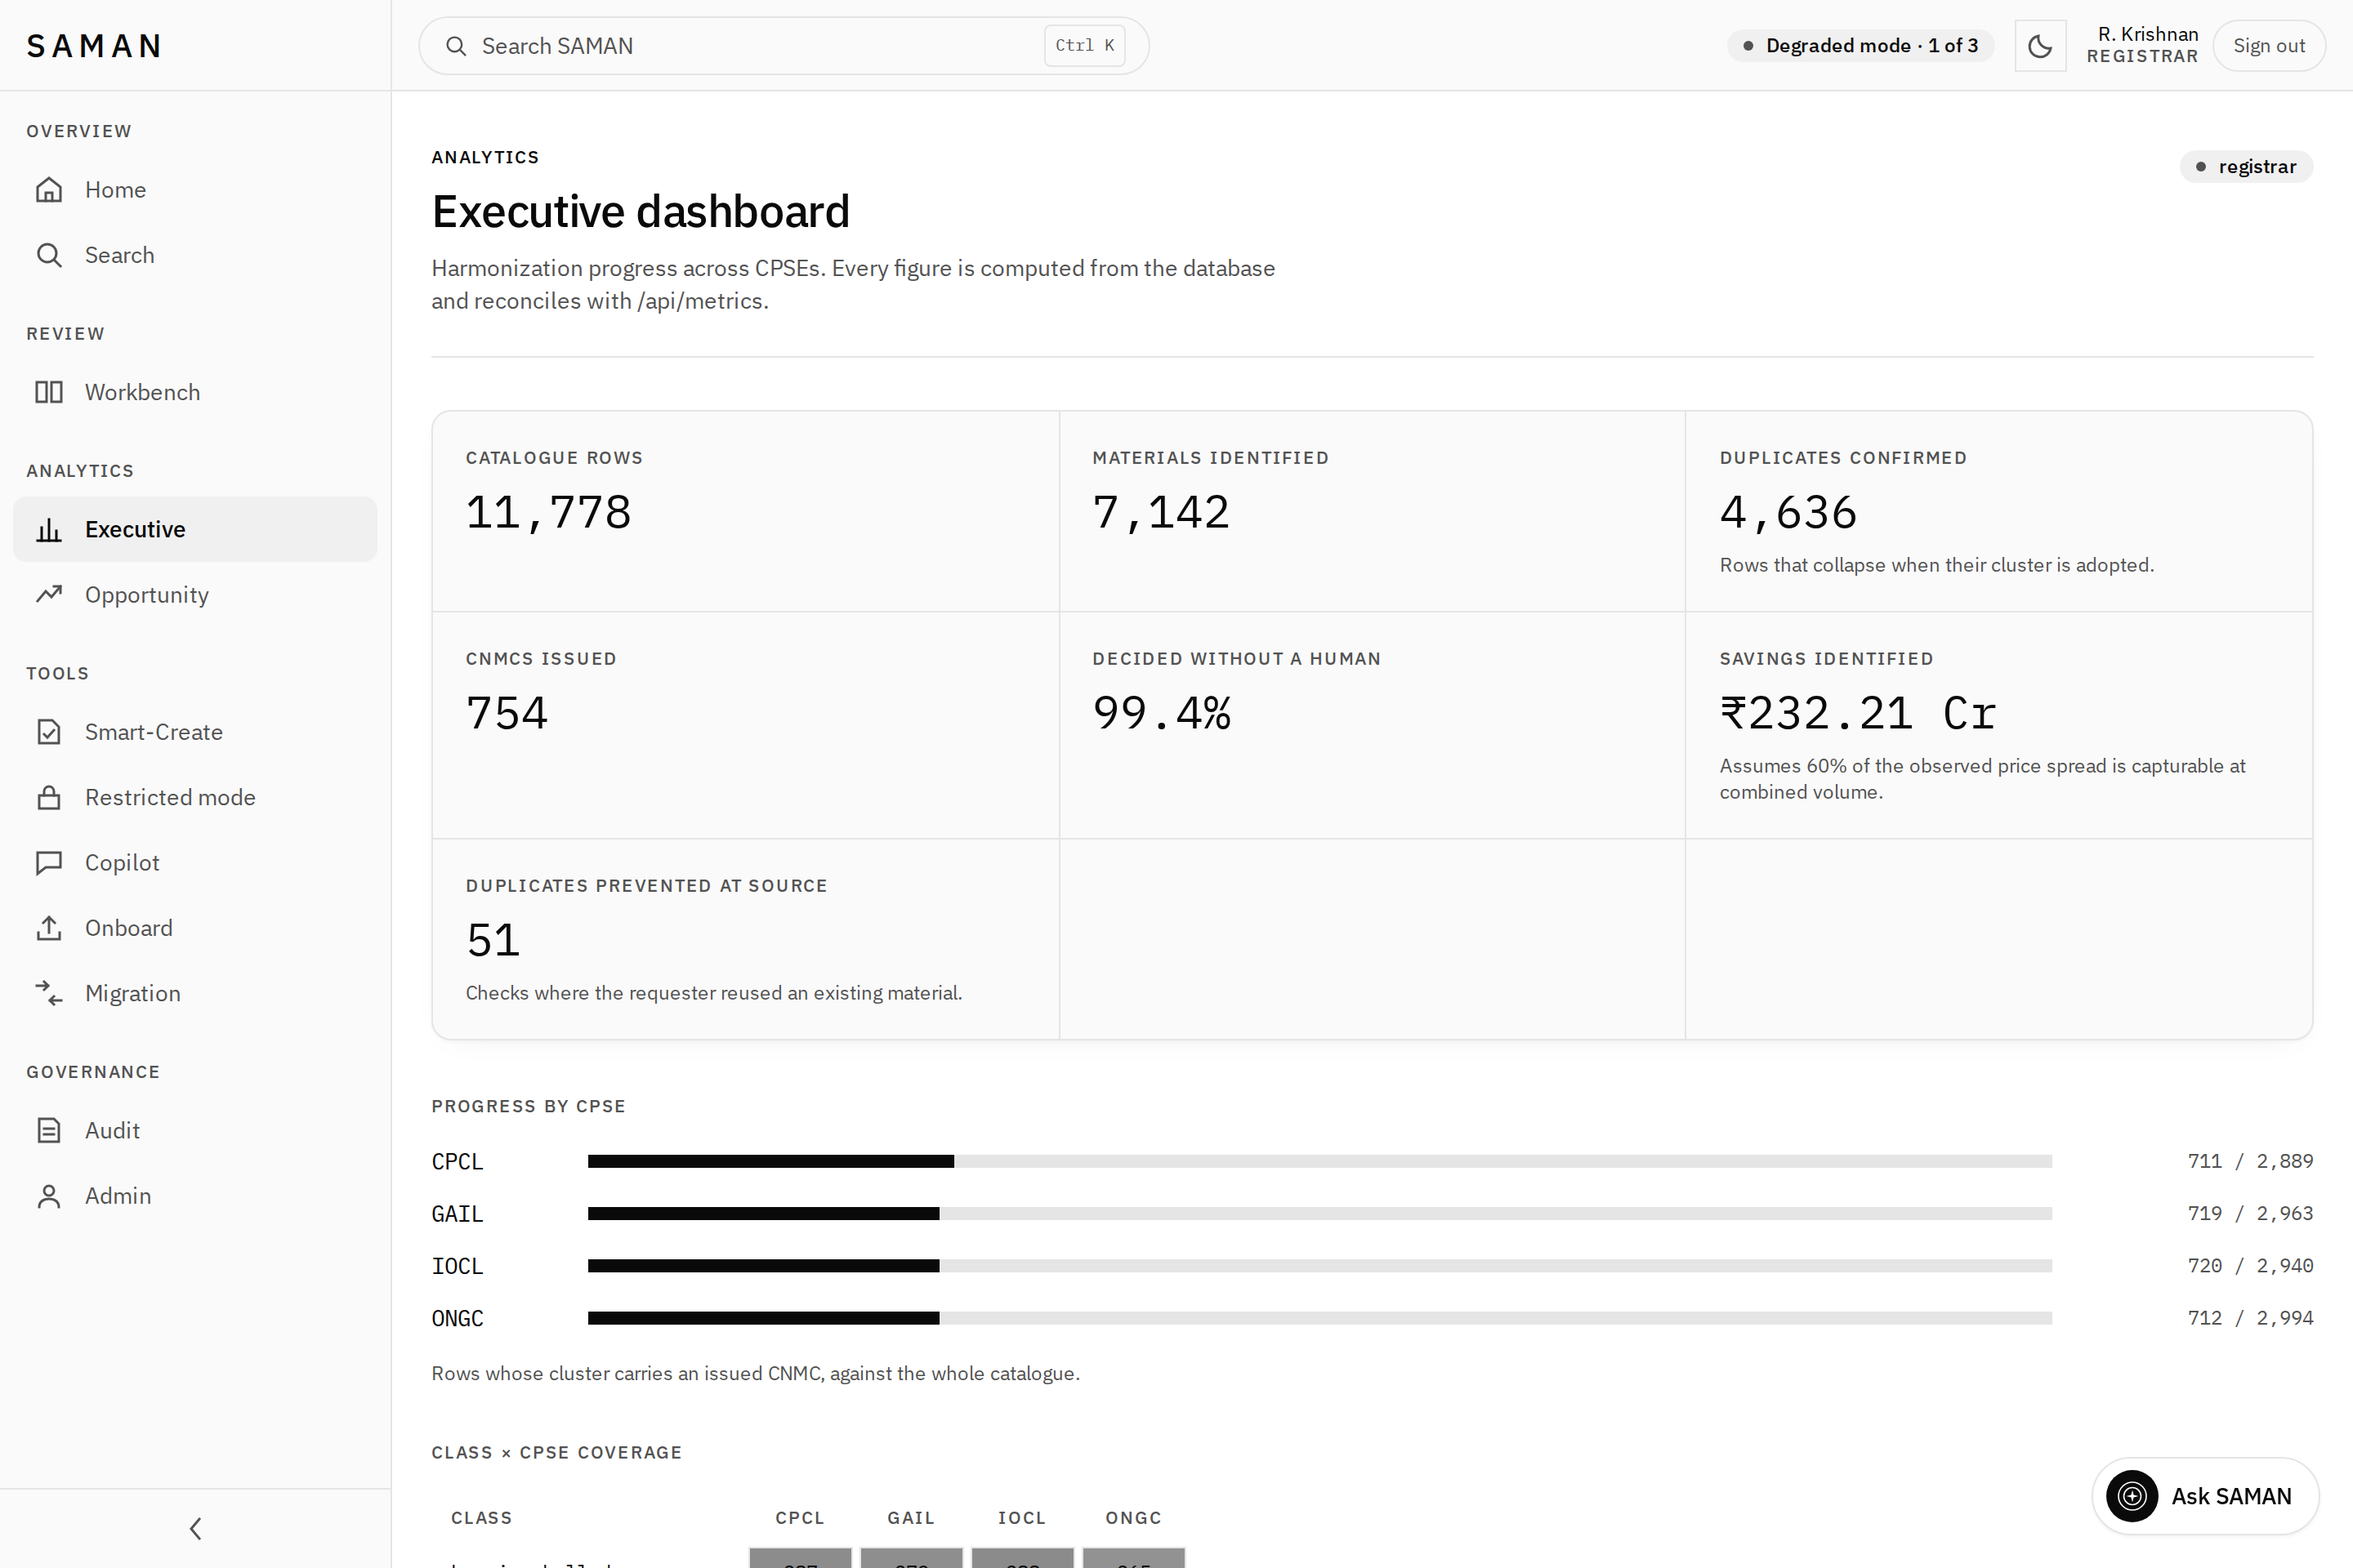
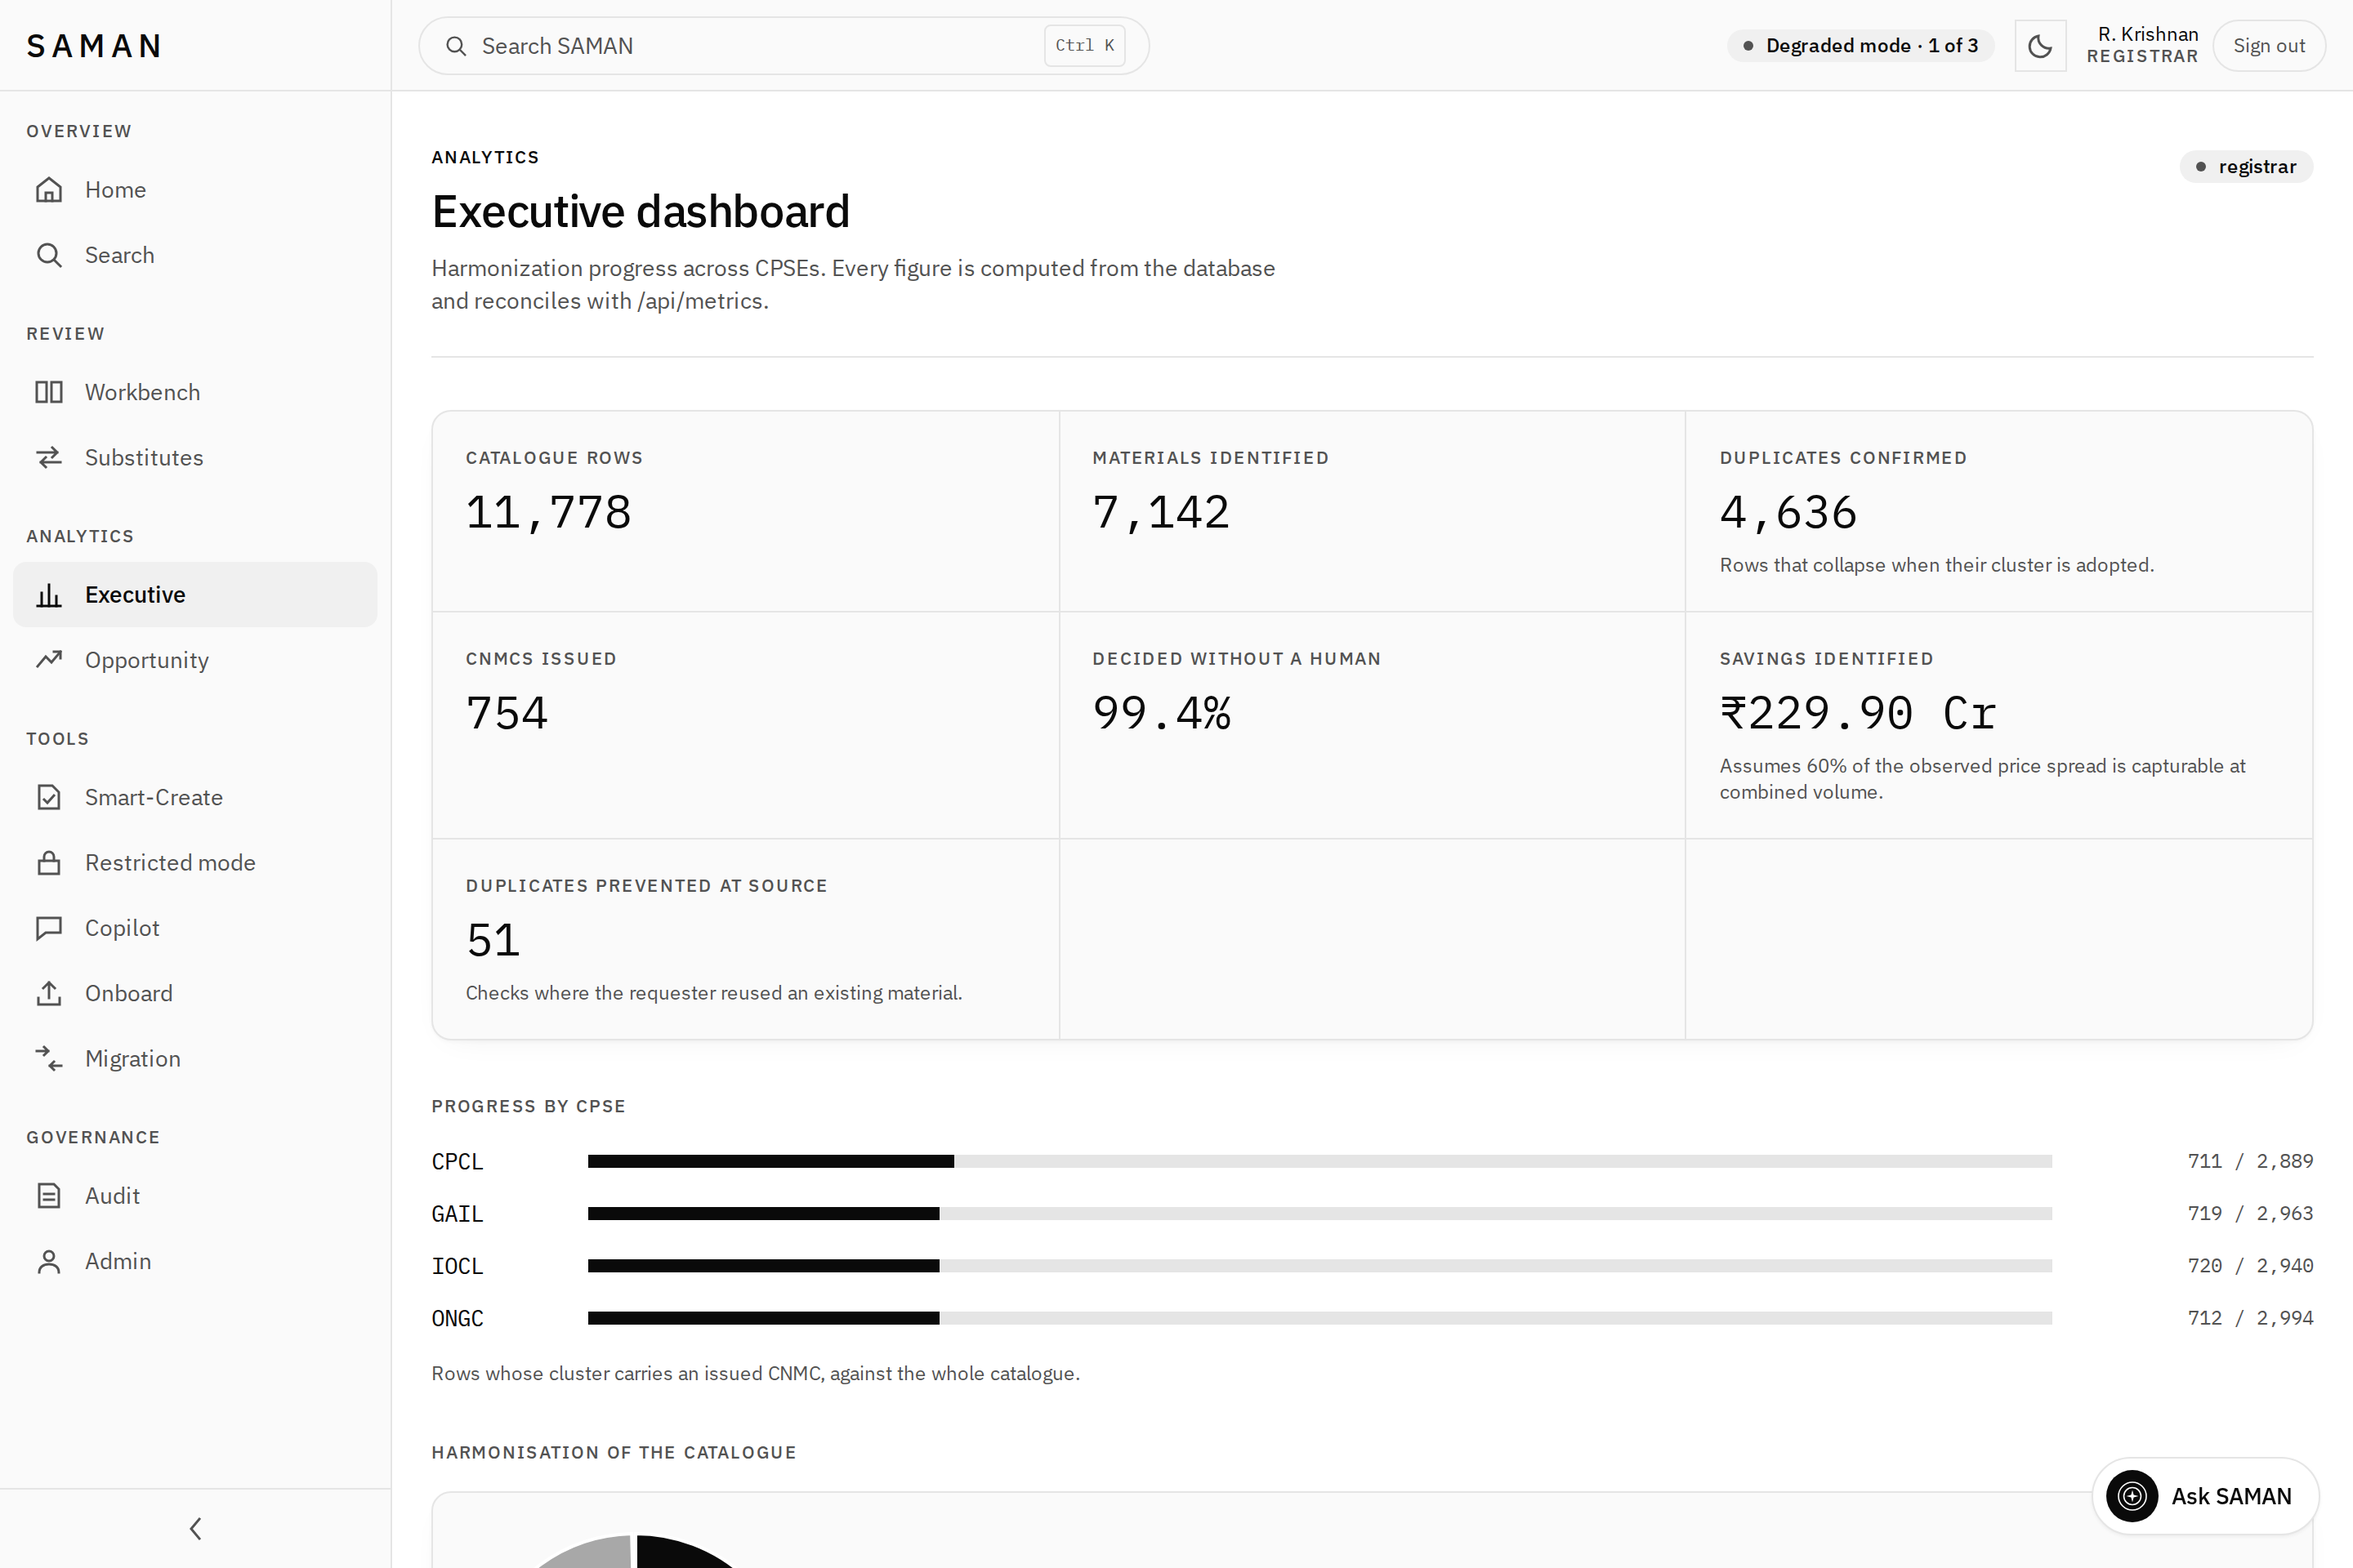
executive: harmonisation donut, three disjoint parts of the catalogue

diff --git a/frontend/src/components/charts/HarmonisationDonut.tsx b/frontend/src/components/charts/HarmonisationDonut.tsx
@@ -1,0 +1,103 @@
+import { Cell, Pie, PieChart, ResponsiveContainer, Tooltip } from 'recharts'
+
+import type { ExecutiveDashboard } from '../../lib/api'
+
+/**
+ * Where the estate stands, as three disjoint parts of one whole.
+ *
+ * A single-hue ramp rather than three colours: the parts are ordered — through
+ * the process, waiting with a duplicate found, waiting without one — and §1.1
+ * keeps this surface monochrome, the same grayscale the class heatmap uses.
+ * The steps are ink at 100%, 62% and 34%, which measure ΔE 23 apart for every
+ * kind of colour vision. The lightest step sits under 3:1 against the page, so
+ * every segment is directly labelled and legended; identity is never carried by
+ * the fill alone.
+ */
+const STEPS = ['rgb(var(--ink))', 'rgb(var(--ink) / 0.62)', 'rgb(var(--ink) / 0.34)']
+
+export function HarmonisationDonut({
+  harmonisation,
+}: {
+  harmonisation: ExecutiveDashboard['harmonisation']
+}) {
+  const { total, parts } = harmonisation
+  if (!total) return null
+  const pct = (v: number) => Math.round((v / total) * 100)
+  const coded = parts.find((p) => p.key === 'coded')?.value ?? 0
+
+  return (
+    <section className="space-y-4" data-testid="harmonisation">
+      <h2 className="micro-label">Harmonisation of the catalogue</h2>
+      <div className="grid items-center gap-6 card p-5 sm:grid-cols-[13rem_minmax(0,1fr)]">
+        <div className="relative mx-auto h-52 w-52">
+          <ResponsiveContainer width="100%" height="100%">
+            <PieChart>
+              <Pie
+                data={parts}
+                dataKey="value"
+                nameKey="label"
+                innerRadius="62%"
+                outerRadius="100%"
+                startAngle={90}
+                endAngle={-270}
+                /* a 2px gap of page between segments, so adjacent steps read
+                   as separate marks rather than one continuous ring */
+                paddingAngle={1.4}
+                stroke="rgb(var(--bg))"
+                strokeWidth={2}
+                isAnimationActive={false}
+              >
+                {parts.map((part, i) => (
+                  <Cell key={part.key} fill={STEPS[i % STEPS.length]} />
+                ))}
+              </Pie>
+              <Tooltip
+                cursor={false}
+                contentStyle={{
+                  background: 'rgb(var(--bg))',
+                  border: '1px solid rgb(var(--hairline))',
+                  borderRadius: 10,
+                  fontSize: 12,
+                  color: 'rgb(var(--ink))',
+                }}
+                formatter={(value: number, name: string) => [
+                  `${value.toLocaleString('en-IN')} rows · ${pct(value)}%`,
+                  name,
+                ]}
+              />
+            </PieChart>
+          </ResponsiveContainer>
+          {/* The one number the ring is about, in the hole it leaves. */}
+          <div className="pointer-events-none absolute inset-0 flex flex-col items-center justify-center">
+            <p className="font-mono text-2xl tabular-nums">{pct(coded)}%</p>
+            <p className="micro-label mt-0.5">coded</p>
+          </div>
+        </div>
+
+        <dl className="space-y-3">
+          {parts.map((part, i) => (
+            <div key={part.key} className="grid grid-cols-[0.6rem_1fr_auto] items-baseline gap-3">
+              <span
+                aria-hidden
+                className="mt-1.5 h-2.5 w-2.5 rounded-[3px]"
+                style={{ background: STEPS[i % STEPS.length] }}
+              />
+              <div className="min-w-0">
+                <dt className="text-sm font-medium">{part.label}</dt>
+                <dd className="text-xs text-muted">{part.note}</dd>
+              </div>
+              <dd className="text-right font-mono text-sm tabular-nums">
+                {part.value.toLocaleString('en-IN')}
+                <span className="ml-2 text-xs text-muted">{pct(part.value)}%</span>
+              </dd>
+            </div>
+          ))}
+        </dl>
+      </div>
+      <p className="text-xs text-muted">
+        Every catalogue row falls in exactly one part; the three sum to{' '}
+        {total.toLocaleString('en-IN')}.
+      </p>
+    </section>
+  )
+}

diff --git a/frontend/src/routes/DashExecutive.tsx b/frontend/src/routes/DashExecutive.tsx
@@ -2,6 +2,7 @@ import { motion, useReducedMotion } from 'framer-motion'
 import { useEffect, useState } from 'react'
 import { Line, LineChart, ResponsiveContainer, Tooltip, XAxis, YAxis, CartesianGrid } from 'recharts'
 
+import { HarmonisationDonut } from '../components/charts/HarmonisationDonut'
 import { PageHeader } from '../components/PageHeader'
 import { AXIS_PROPS, CHART_INK, GRID_PROPS, TOOLTIP_PROPS } from '../components/charts/Chrome'
 import { CountUp, formatRupees } from '../components/charts/CountUp'
@@ -117,6 +118,8 @@ export default function DashExecutive() {
               Rows whose cluster carries an issued CNMC, against the whole catalogue.
             </p>
           </section>
+
+          <HarmonisationDonut harmonisation={data.harmonisation} />
 
           <QualityTable quality={data.quality} />
 

diff --git a/frontend/src/lib/api.ts b/frontend/src/lib/api.ts
@@ -505,6 +505,10 @@ export type ExecutiveDashboard = {
   }
   review: { pending: Record<string, number>; decisions_made: number }
   quality: QualityScorecard
+  harmonisation: {
+    total: number
+    parts: { key: string; label: string; value: number; note: string }[]
+  }
   trend: { date: string; cnmcs_issued: number; cnmcs_total: number; decisions: number }[]
   inventory: {
     positions: number

diff --git a/backend/app/routers/dashboard.py b/backend/app/routers/dashboard.py
@@ -157,6 +157,47 @@ def executive(
 
     prevention = smart_create.stats(db)
 
+    # Three disjoint buckets over every catalogue row: carrying a code, waiting
+    # for one with a duplicate found, and waiting for one with none found.
+    coded_items = db.execute(
+        select(func.count(distinct(ClusterMember.item_id)))
+        .join(GoldenRecord, GoldenRecord.cluster_id == ClusterMember.cluster_id)
+        .join(Cnmc, Cnmc.golden_id == GoldenRecord.id)
+    ).scalar() or 0
+    sizes = db.execute(
+        select(ClusterMember.cluster_id, func.count(ClusterMember.item_id)).group_by(
+            ClusterMember.cluster_id
+        )
+    ).all()
+    in_multi = sum(n for _, n in sizes if n > 1)
+    in_single = sum(n for _, n in sizes if n == 1)
+    # Coded rows are spread across both kinds of cluster; take them off the
+    # duplicate pile first, then the singleton pile, so the parts never overlap.
+    from_multi = min(coded_items, in_multi)
+    harmonisation = {
+        "total": items_total,
+        "parts": [
+            {
+                "key": "coded",
+                "label": "Carrying a CNMC",
+                "value": coded_items,
+                "note": "Through review and issued a national code.",
+            },
+            {
+                "key": "duplicate_pending",
+                "label": "Duplicate found, awaiting a code",
+                "value": max(in_multi - from_multi, 0),
+                "note": "Clustered with at least one other row; the code is the next step.",
+            },
+            {
+                "key": "unique_pending",
+                "label": "No duplicate found",
+                "value": max(in_single - (coded_items - from_multi), 0),
+                "note": "The only row describing this material so far.",
+            },
+        ],
+    }
+
     return {
         "kpis": [
             {"key": "items", "label": "Catalogue rows", "value": items_total},
@@ -215,6 +256,10 @@ def executive(
         },
         # The promised "improved data quality", measured per catalogue.
         "quality": quality.scorecard(db),
+        # Where the estate stands, as three disjoint parts of one whole. The
+        # KPIs count things; this says what share of the catalogue is actually
+        # through the process, which is the question the dashboard exists for.
+        "harmonisation": harmonisation,
         "trend": trend,
         "inventory": {
             "positions": stock["positions"],
